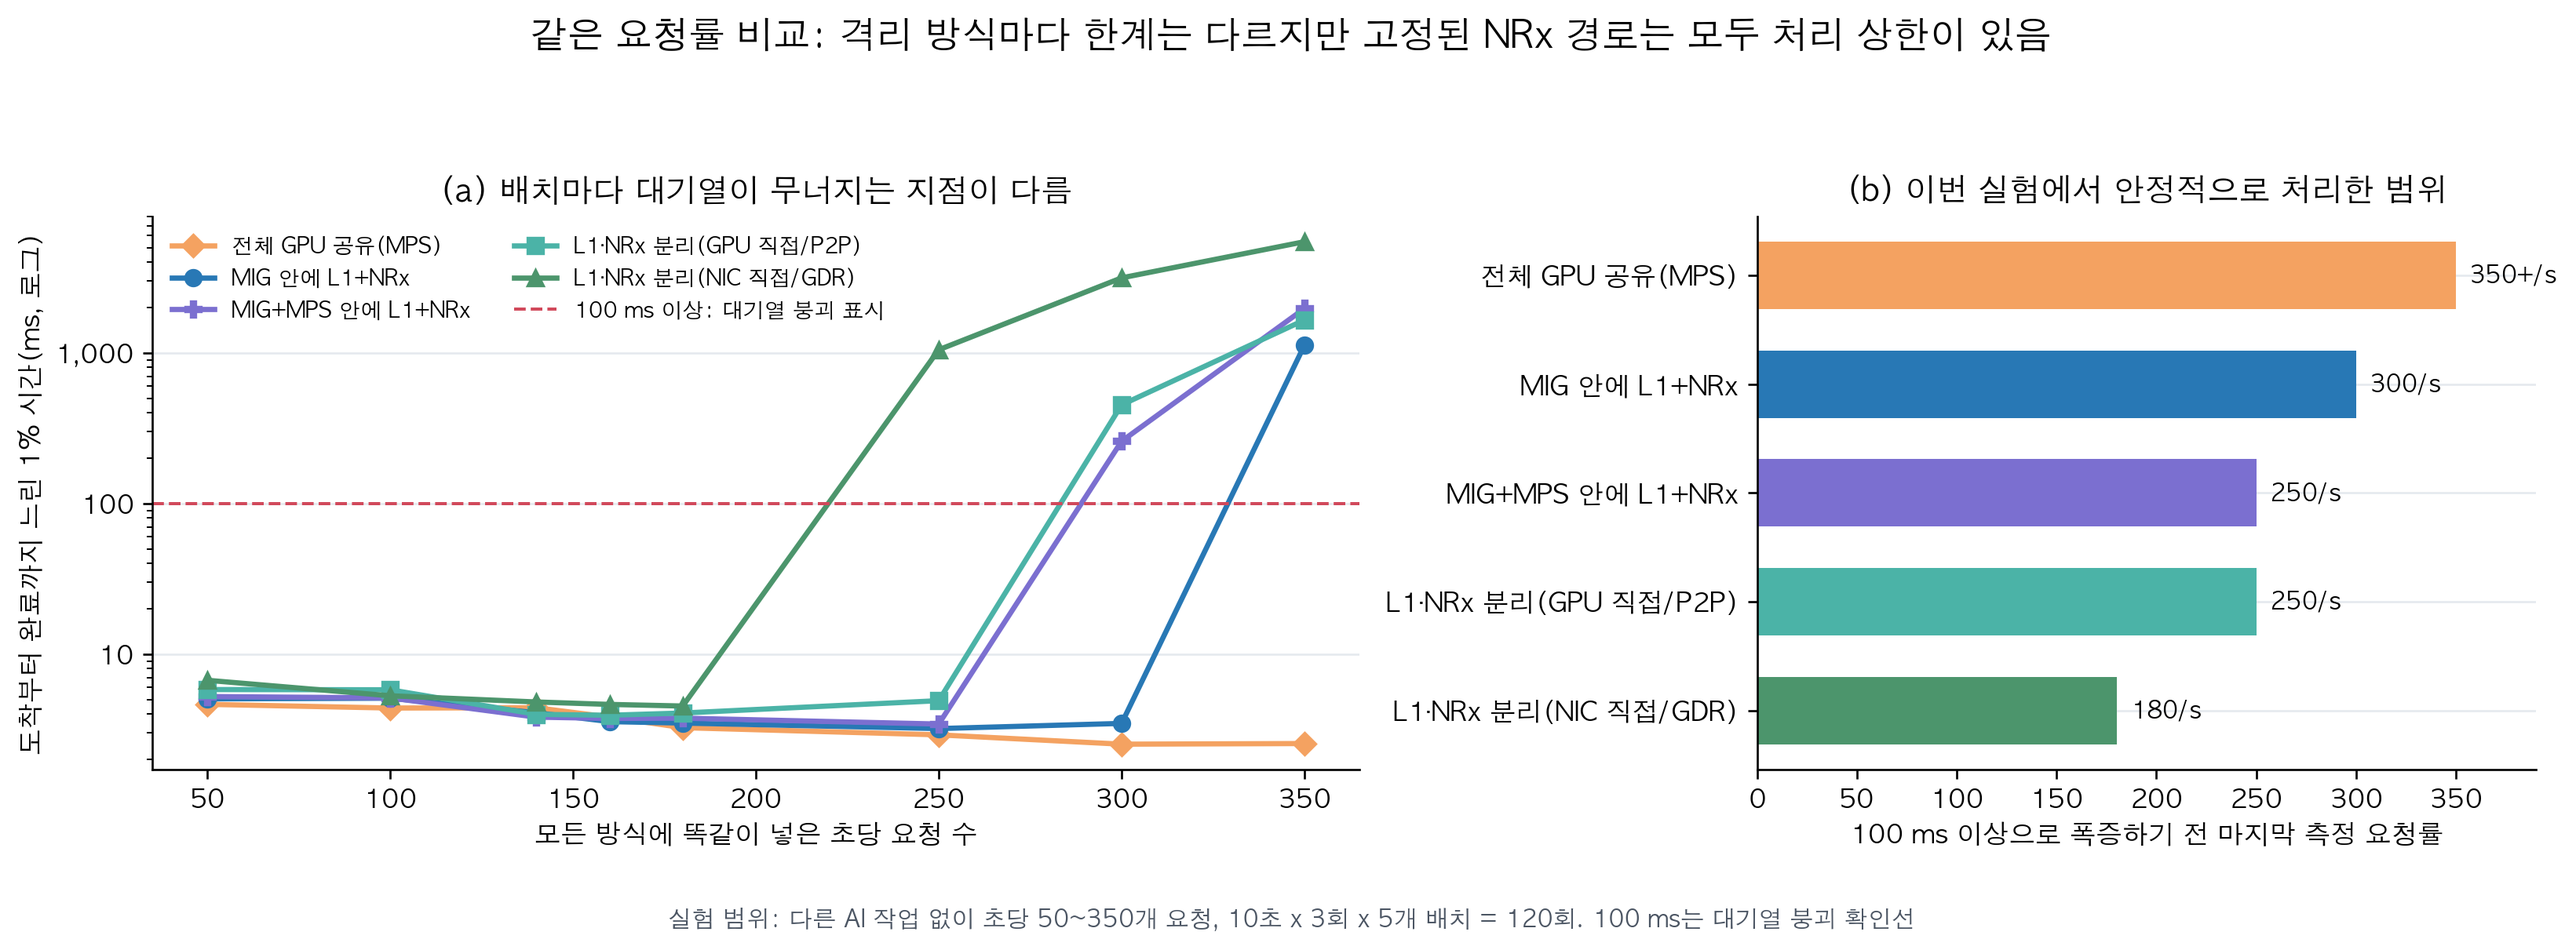
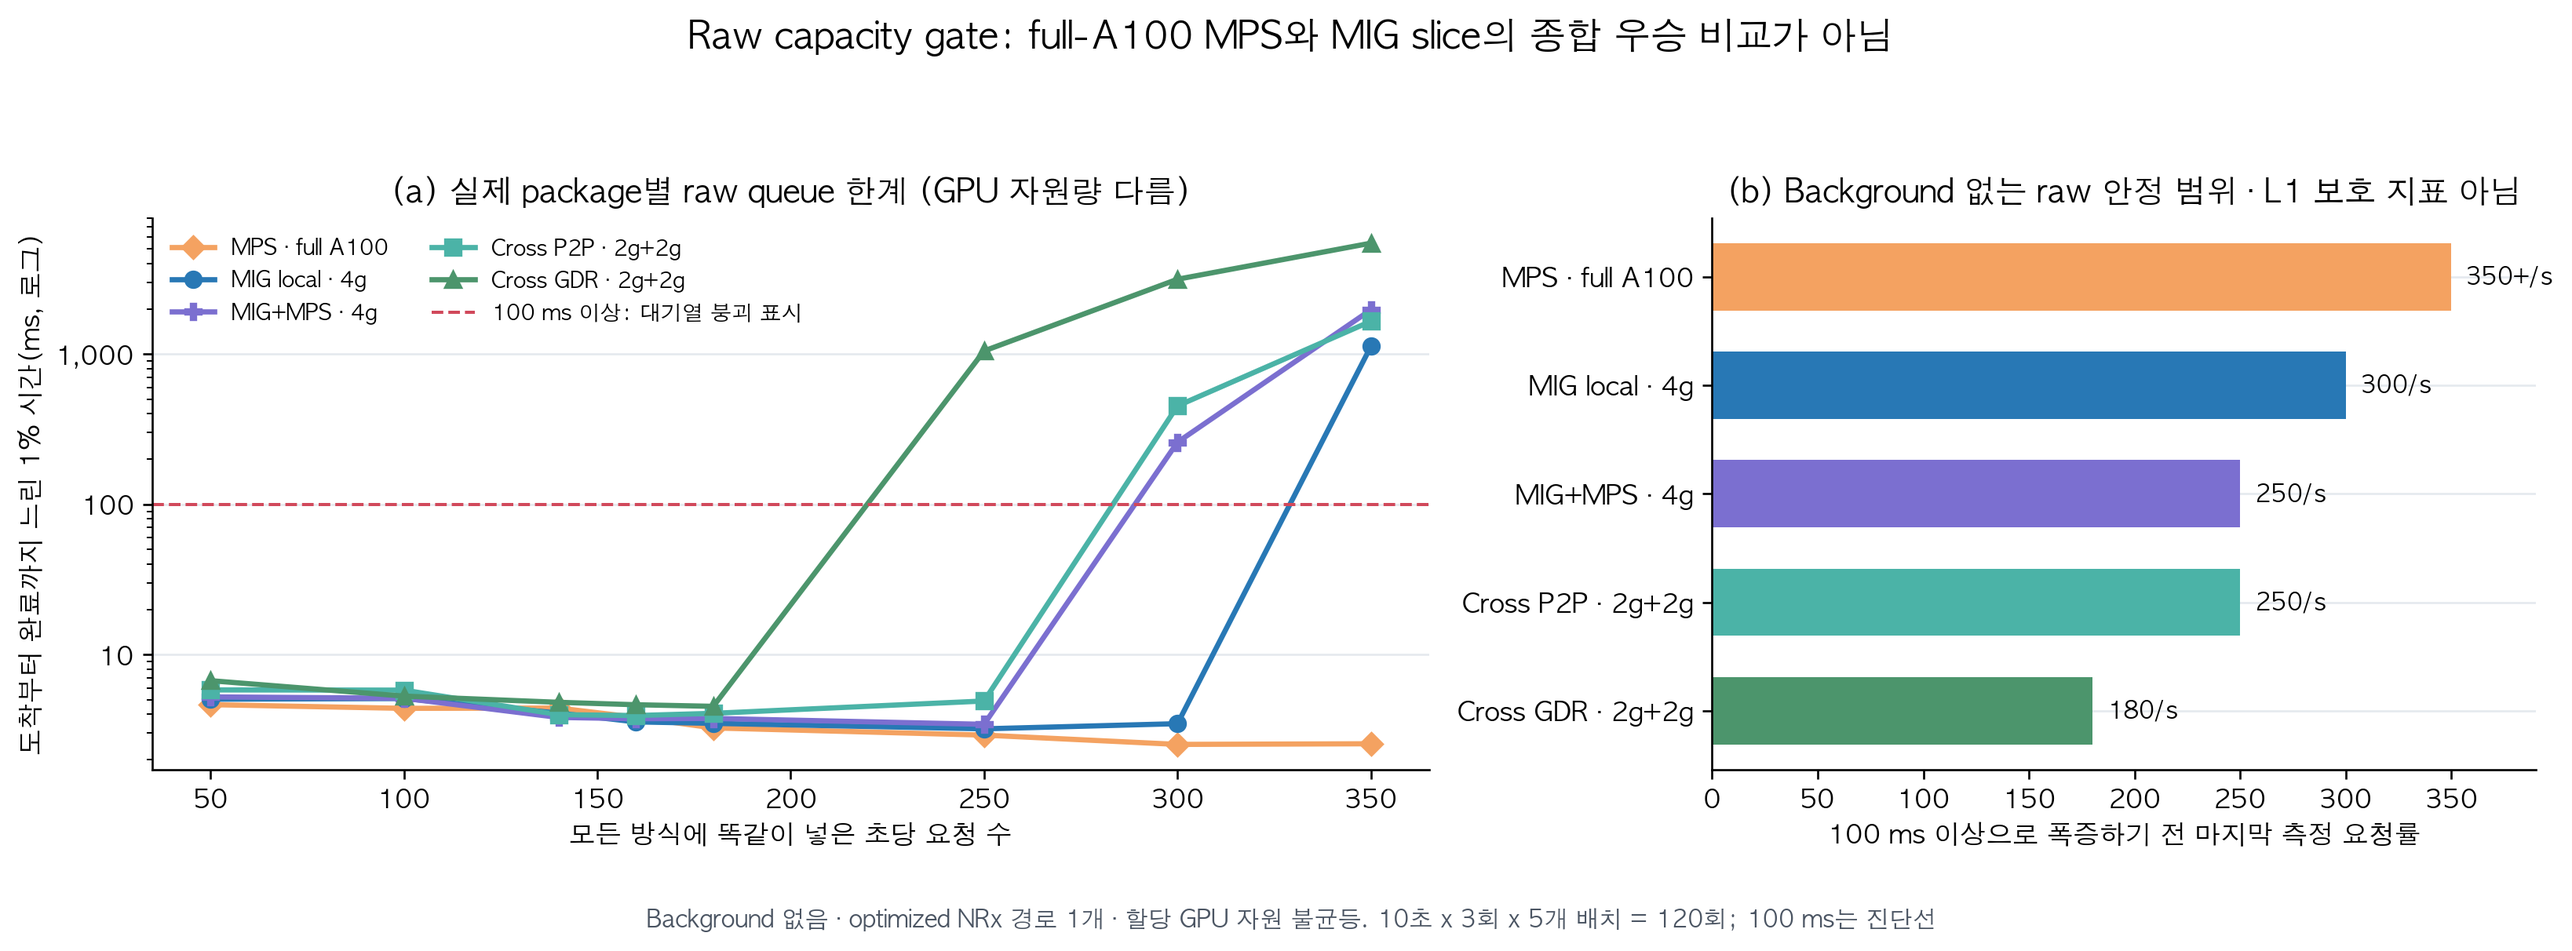
Refine fiveway absolute-rate figure + walkthrough

diff --git a/tools/analysis/generate_research_walkthrough_figures.py b/tools/analysis/generate_research_walkthrough_figures.py
@@ -1816,11 +1816,11 @@ def _fiveway_median(variant: str, rate: int, metric: str) -> float:
 def figure_03b_fiveway_absolute_rate():
     rates = [50, 100, 140, 160, 180, 250, 300, 350]
     variants = [
-        ("mps", "전체 GPU 공유(MPS)", COLORS["orange"], "D"),
-        ("mig_local", "MIG 안에 L1+NRx", COLORS["blue"], "o"),
-        ("mig_mps", "MIG+MPS 안에 L1+NRx", COLORS["purple"], "P"),
-        ("p2p", "L1·NRx 분리(GPU 직접/P2P)", COLORS["cyan"], "s"),
-        ("gdr", "L1·NRx 분리(NIC 직접/GDR)", COLORS["green"], "^"),
+        ("mps", "MPS · full A100", COLORS["orange"], "D"),
+        ("mig_local", "MIG local · 4g", COLORS["blue"], "o"),
+        ("mig_mps", "MIG+MPS · 4g", COLORS["purple"], "P"),
+        ("p2p", "Cross P2P · 2g+2g", COLORS["cyan"], "s"),
+        ("gdr", "Cross GDR · 2g+2g", COLORS["green"], "^"),
     ]
     series = {
         variant: [_fiveway_median(variant, rate, "sojourn") for rate in rates]
@@ -1846,7 +1846,7 @@ def figure_03b_fiveway_absolute_rate():
     axes[0].set_yscale("log")
     axes[0].set_xlabel("모든 방식에 똑같이 넣은 초당 요청 수")
     axes[0].set_ylabel("도착부터 완료까지 느린 1% 시간(ms, 로그)")
-    axes[0].set_title("(a) 배치마다 대기열이 무너지는 지점이 다름")
+    axes[0].set_title("(a) 실제 package별 raw queue 한계 (GPU 자원량 다름)")
     axes[0].legend(frameon=False, fontsize=8.2, ncol=2)
     style_axes(axes[0])
 
@@ -1858,21 +1858,21 @@ def figure_03b_fiveway_absolute_rate():
     axes[1].invert_yaxis()
     axes[1].set_xlim(0, 390)
     axes[1].set_xlabel("100 ms 이상으로 폭증하기 전 마지막 측정 요청률")
-    axes[1].set_title("(b) 이번 실험에서 안정적으로 처리한 범위")
-    for bar, value, label in zip(bars, stable, labels):
-        suffix = "+" if label == "전체 GPU 공유(MPS)" and value == max(rates) else ""
+    axes[1].set_title("(b) Background 없는 raw 안정 범위 · L1 보호 지표 아님")
+    for bar, value, label, variant in zip(bars, stable, labels, [v[0] for v in variants]):
+        suffix = "+" if variant == "mps" and value == max(rates) else ""
         axes[1].text(value + 7, bar.get_y() + bar.get_height() / 2, f"{value}{suffix}/s", va="center", fontsize=9)
     style_axes(axes[1])
 
     fig.suptitle(
-        "같은 요청률 비교: 격리 방식마다 한계는 다르지만 고정된 NRx 경로는 모두 처리 상한이 있음",
+        "Raw capacity gate: full-A100 MPS와 MIG slice의 종합 우승 비교가 아님",
         fontsize=14,
         fontweight="bold",
     )
     fig.text(
         0.5,
         -0.005,
-        "실험 범위: 다른 AI 작업 없이 초당 50~350개 요청, 10초 x 3회 x 5개 배치 = 120회. 100 ms는 대기열 붕괴 확인선",
+        "Background 없음 · optimized NRx 경로 1개 · 할당 GPU 자원 불균등. 10초 x 3회 x 5개 배치 = 120회; 100 ms는 진단선",
         ha="center",
         fontsize=9,
         color="#4b5563",

diff --git a/tools/analysis/generate_research_walkthrough_figures_en.py b/tools/analysis/generate_research_walkthrough_figures_en.py
@@ -282,19 +282,19 @@ EN = {
         "Scope: optimized TensorRT path. GDR queue depth is 1 and the main P2P result uses depth 2, so their throughput is not directly compared",
     "모든 방식에 똑같이 넣은 초당 요청 수": "Identical incoming request rate (/s)",
     "도착부터 완료까지 느린 1% 시간(ms, 로그)": "Arrival-to-completion p99 (ms, log scale)",
-    "(a) 배치마다 대기열이 무너지는 지점이 다름": "(a) Queue-collapse points differ by placement",
-    "전체 GPU 공유(MPS)": "Full-GPU sharing (MPS)",
-    "MIG 안에 L1+NRx": "L1+NRx inside MIG",
-    "MIG+MPS 안에 L1+NRx": "L1+NRx inside MIG+MPS",
-    "L1·NRx 분리(GPU 직접/P2P)": "Separate L1/NRx (GPU-direct/P2P)",
-    "L1·NRx 분리(NIC 직접/GDR)": "Separate L1/NRx (NIC-direct/GDR)",
+    "(a) 실제 package별 raw queue 한계 (GPU 자원량 다름)": "(a) Raw queue limit by package (unequal GPU allocations)",
+    "MPS · full A100": "MPS · full A100",
+    "MIG local · 4g": "MIG local · 4g",
+    "MIG+MPS · 4g": "MIG+MPS · 4g",
+    "Cross P2P · 2g+2g": "Cross P2P · 2g+2g",
+    "Cross GDR · 2g+2g": "Cross GDR · 2g+2g",
     "100 ms 이상: 대기열 붕괴 표시": ">=100 ms: queue-collapse marker",
     "100 ms 이상으로 폭증하기 전 마지막 측정 요청률": "Last measured rate before p99 exceeds 100 ms",
-    "(b) 이번 실험에서 안정적으로 처리한 범위": "(b) Stable range in this experiment",
-    "같은 요청률 비교: 격리 방식마다 한계는 다르지만 고정된 NRx 경로는 모두 처리 상한이 있음":
-        "Equal-rate comparison: every fixed NRx path has a capacity ceiling",
-    "실험 범위: 다른 AI 작업 없이 초당 50~350개 요청, 10초 x 3회 x 5개 배치 = 120회. 100 ms는 대기열 붕괴 확인선":
-        "Scope: 50-350 requests/s without background AI; 10 s x 3 trials x 5 placements = 120 runs; 100 ms marks queue collapse",
+    "(b) Background 없는 raw 안정 범위 · L1 보호 지표 아님": "(b) Background-free raw range · not an L1-protection metric",
+    "Raw capacity gate: full-A100 MPS와 MIG slice의 종합 우승 비교가 아님":
+        "Raw-capacity gate: not an overall contest between full-A100 MPS and MIG slices",
+    "Background 없음 · optimized NRx 경로 1개 · 할당 GPU 자원 불균등. 10초 x 3회 x 5개 배치 = 120회; 100 ms는 진단선":
+        "No background · one optimized NRx path · unequal GPU allocations. 10 s x 3 trials x 5 placements = 120 runs; 100 ms is diagnostic",
     "(a) 같은 4g MIG 안의 L1/NRx 몫을 변경": "(a) Vary L1/NRx shares inside one 4g MIG",
     "옆 3g의 Qwen은 계속 약 10.21~10.22 iter/s": "Qwen on the sibling 3g remains at about 10.21-10.22 iter/s",
     "NRx에 허용한 실행 몫(%)": "Execution share allowed for NRx (%)",

diff --git a/docs/current/RESEARCH_WALKTHROUGH_KO.md b/docs/current/RESEARCH_WALKTHROUGH_KO.md
@@ -334,34 +334,51 @@ DART-Rx는 local, P2P, GDR 중 하나만 고집하지 않는다. 같은 endpoint
 사용한다. 연구의 핵심은 data path 선택 그 자체가 아니라 **이 서로 다른 endpoint를 하나의
 deadline-safe receiver service로 만드는 admission, reservation, expiry, commit 규칙**이다.
 
-### 1.5 같은 요청률에서 실제 배치 package는 어디서 무너지는가
+### 1.5 공정성 주의: 같은 요청률에서 본 raw service limit
 
 앞의 단일 요청·전송 실험은 요청 하나의 경로를 본다. 실제 multi-cell에서는 처리시간뿐 아니라 초당
-몇 개를 지속해서 받을 수 있는지가 중요하다. 그래서 완전히 같은 50–350 request/s trace를
-다섯 방식에 넣어 120회 실행했다. 이 gate에는 background co-tenant를 넣지 않아 각
-placement 자체의 service limit를 먼저 분리했다. Background와의 trade-off는 앞의 Qwen cap
-sweep과 뒤의 reclaim 실험에서 별도로 측정했다.
+몇 개를 지속해서 받을 수 있는지도 중요하다. 그래서 완전히 같은 50–350 request/s trace를
+다섯 방식에 넣어 120회 실행했다.
 
-![다섯 배치 방식의 초당 요청 수별 대기열 붕괴 지점](figures/03b_fiveway_absolute_rate.png)
+> **이 표는 종합 우승자를 고르는 실험이 아니다.** Background가 없고 optimized NRx 경로 하나만
+> 사용하는 상태에서 각 **실제 배치 package의 raw service limit**를 측정한다. Full MPS는 full
+> A100 전체를 사용하지만 나머지는 4g 또는 2g MIG slice를 사용하므로 계산 자원부터 같지 않다.
+> 따라서 이 표는 L1 isolation, multi-process interference 또는 동일-SM 효율을 비교하지 않는다.
 
-| 방식 | p99가 100 ms를 넘기 전 마지막 측정점 | 그 지점 p99 | 다음 측정점 |
-|---|---:|---:|---:|
-| Full MPS | 적어도 350/s | 2.551 ms | sweep 범위 안에서 collapse 없음 |
-| MIG local | 300/s | 3.470 ms | 350/s → **1124.981 ms** |
-| MIG+MPS (two clients, uncapped) | 250/s | 3.437 ms | 300/s → **259.106 ms** |
-| Cross P2P | 250/s | 4.911 ms | 300/s → **451.798 ms** |
-| Cross NIC GDR | 180/s | 4.527 ms | 250/s → **1048.696 ms** |
+![서로 다른 GPU 자원량을 가진 다섯 배치 package의 background 없는 raw service limit](figures/03b_fiveway_absolute_rate.png)
+
+| 실제 배치 package | 이 gate에서 사용한 GPU 자원 | p99가 100 ms를 넘기 전 마지막 측정점 | 그 지점 p99 | 다음 측정점 |
+|---|---|---:|---:|---:|
+| Full MPS | **full A100** 공유 | 적어도 350/s | 2.551 ms | sweep 범위 안에서 collapse 없음 |
+| MIG local | 한 4g에 L1+NRx | 300/s | 3.470 ms | 350/s → **1124.981 ms** |
+| MIG+MPS | 한 4g의 two clients, uncapped | 250/s | 3.437 ms | 300/s → **259.106 ms** |
+| Cross P2P | 2g L1 + 2g NRx | 250/s | 4.911 ms | 300/s → **451.798 ms** |
+| Cross NIC GDR | 2g L1 + 2g NRx | 180/s | 4.527 ms | 250/s → **1048.696 ms** |
 
 `100 ms`는 production deadline이 아니라 queue collapse를 눈에 띄게 구분하기 위한 진단선이다.
-여기서 Full MPS는 full A100을 사용하고 local/cross 방식은 MIG slice를 사용하므로, 이 표는
-동일한 SM 수의 순수 성능 비교가 아니다. **실제 배치 package가 제공하는 capacity와 isolation
-trade-off**다.
+여기서 Full MPS가 가장 좋아 보이는 이유는 단순하다. 가장 큰 계산 자원을 쓰고, background가
+없으며, 한 optimized NRx 경로만 실행하므로 MPS의 work-conserving 장점만 드러난다. 앞에서 본
+multi-NRx stress test와 모순되지 않는다. 독립 NRx process를 `1→8`개로 늘린 그 실험에서는
+full-A100 MPS의 L1 p99가 `42.3→189.3 ms`로 `4.5×` 증가했다. 즉 **MPS는 raw throughput에는
+강하지만 co-tenant와 독립 context가 늘어날 때 L1을 보호하는 벽이 없다.**
+
+따라서 “무엇이 더 좋은가”는 지표별로 답해야 한다.
+
+| 질문 | 현재 실험에서 유리한 방식 | 근거 |
+|---|---|---|
+| Background 없는 단일 optimized NRx의 raw capacity | Full MPS | full A100을 work-conserving하게 사용 |
+| NRx 동시 실행 중 L1 active-time 보호 | Cross P2P | L1 slowdown `1.621× → 1.043×` |
+| Sibling background 격리 | MIG | Qwen 동시 실행 시 NRx capacity 변화 `-0.11%` |
+| P2P가 닿지 않는 isolated NRx 연결 | NIC GDR | CPU DRAM bounce 없는 cross-boundary GPU-memory path |
+
+이 gate는 raw capacity 축 하나를 채운다. Background와의 trade-off는 Qwen cap 및 multi-NRx
+sweep, L1 보호는 isolation gate, spare-work 회수는 §15.4에서 각각 측정한다.
 
 이 결과가 보여주는 문제의식은 다음과 같다.
 
-- Full MPS는 raw capacity가 가장 높았다. 따라서 연구가 “MIG가 언제나 MPS보다 빠르다”고
-  주장하면 틀린다. MPS의 문제는 최대 처리량이 아니라 background load에 따른 L1 tail과
-  예측 가능성이다.
+- Full MPS는 **이 좁은 raw-capacity gate에서만** 가장 높았다. 따라서 연구가 “MIG가 언제나
+  MPS보다 빠르다”고 주장하면 틀리지만, 이를 “MPS가 실시간 L1에 가장 좋다”로 읽어도 틀린다.
+  MPS의 문제는 최대 처리량이 아니라 co-tenant/context 증가에 따른 L1 tail과 예측 가능성이다.
 - MIG local은 sibling background를 훌륭히 막지만, 4g 안의 NRx capacity 이상을 다른 idle
   partition에서 자동으로 가져오지 못한다.
 - MIG+MPS는 한 4g를 더 잘 나누는 도구일 뿐, 4g의 총 capacity를 늘리거나 벽 밖의 idle

diff --git a/docs/current/RESEARCH_WALKTHROUGH_EN.md b/docs/current/RESEARCH_WALKTHROUGH_EN.md
@@ -332,32 +332,51 @@ P2P where peer access exists, and GDR across other process/GPU/isolation boundar
 the path selection itself, but the admission, reservation, expiry, and commit contract that makes
 heterogeneous endpoints one deadline-safe receiver service.
 
-### 1.5 Where do the actual placement packages collapse under the same arrival rate?
+### 1.5 Fairness warning: raw service limits under the same arrival rate
 
 The placement experiment above emphasizes a single dependency path. Multi-cell operation also
-depends on the sustainable request rate. We therefore replayed identical 50–350 requests/s traces
-against five placements in 120 runs. This gate excludes a background co-tenant so that the service
-limit of each placement can be isolated. Qwen interference and background reclaim are measured in
-separate gates.
+depends on sustainable request rate, so we replayed identical 50–350 requests/s traces against five
+placements in 120 runs.
 
-![Queue-collapse boundaries for five placement approaches](figures_en/03b_fiveway_absolute_rate.png)
+> **This experiment does not choose an overall winner.** It measures the raw service limit of each
+> deployable package with no background tenant and one optimized NRx path. Full MPS uses the entire
+> A100, whereas the other packages use 4g or 2g MIG slices. It therefore does not compare equal-SM
+> efficiency, L1 isolation, or multi-process interference.
 
-| Placement | Last measured point before p99 exceeded 100 ms | p99 at that point | Next point |
-|---|---:|---:|---:|
-| Full MPS | At least 350/s | 2.551 ms | No collapse within the sweep |
-| MIG local | 300/s | 3.470 ms | 350/s → **1124.981 ms** |
-| MIG+MPS, two clients uncapped | 250/s | 3.437 ms | 300/s → **259.106 ms** |
-| Cross P2P | 250/s | 4.911 ms | 300/s → **451.798 ms** |
-| Cross NIC GDR | 180/s | 4.527 ms | 250/s → **1048.696 ms** |
+![Background-free raw service limits of five packages with unequal GPU allocations](figures_en/03b_fiveway_absolute_rate.png)
+
+| Deployable package | GPU allocation in this gate | Last point before p99 exceeded 100 ms | p99 there | Next point |
+|---|---|---:|---:|---:|
+| Full MPS | **Full A100** shared | At least 350/s | 2.551 ms | No collapse within the sweep |
+| MIG local | L1+NRx in one 4g | 300/s | 3.470 ms | 350/s → **1124.981 ms** |
+| MIG+MPS | Two uncapped clients in one 4g | 250/s | 3.437 ms | 300/s → **259.106 ms** |
+| Cross P2P | 2g L1 + 2g NRx | 250/s | 4.911 ms | 300/s → **451.798 ms** |
+| Cross NIC GDR | 2g L1 + 2g NRx | 180/s | 4.527 ms | 250/s → **1048.696 ms** |
 
 The 100 ms line is a diagnostic marker for an obvious queue collapse, not a production deadline.
-Full MPS uses a full A100, while the local and cross configurations use MIG slices. This is therefore
-not an equal-SM microbenchmark. It is the **capacity–isolation trade-off of each deployable package.**
+Full MPS looks best here for a straightforward reason: it has the largest compute allocation, no
+background tenant, and only one optimized NRx path, exposing the work-conserving benefit of MPS.
+This does not contradict the earlier multi-NRx stress test. When independent NRx processes increased
+from `1→8`, full-A100 MPS increased L1 p99 from `42.3→189.3 ms`, or `4.5×`. **MPS is strong in raw
+throughput but has no hardware wall protecting L1 as co-tenants and independent contexts increase.**
+
+The winner therefore depends on the question:
+
+| Question | Favorable measured approach | Evidence |
+|---|---|---|
+| Background-free raw capacity of one optimized NRx path | Full MPS | Work-conserving use of a full A100 |
+| L1 active-time protection while NRx overlaps | Cross P2P | L1 slowdown `1.621× → 1.043×` |
+| Isolation from sibling background work | MIG | NRx capacity changed only `-0.11%` with Qwen |
+| Reaching isolated NRx outside P2P support | NIC GDR | Cross-boundary GPU-memory path without CPU-DRAM bounce |
+
+This gate fills only the raw-capacity axis. Qwen-cap and multi-NRx sweeps measure interference,
+the isolation gate measures L1 protection, and §15.4 measures reclaim of background work.
 
 The result sharpens the problem statement:
 
-- Full MPS has the highest raw capacity. A claim that MIG is always faster than MPS would be false.
-  The MPS concern is L1-tail predictability under background load, not peak throughput.
+- Full MPS is highest **only in this narrow raw-capacity gate**. It would be wrong to claim either
+  that MIG is always faster or that MPS is therefore best for real-time L1. The MPS concern is L1
+  tail and predictability as co-tenants and independent contexts increase, not peak throughput.
 - MIG local isolates sibling background work but cannot automatically pull capacity from another
   idle partition after the 4g NRx saturates.
 - MIG+MPS partitions one 4g more carefully; it neither increases total 4g capacity nor accesses idle
